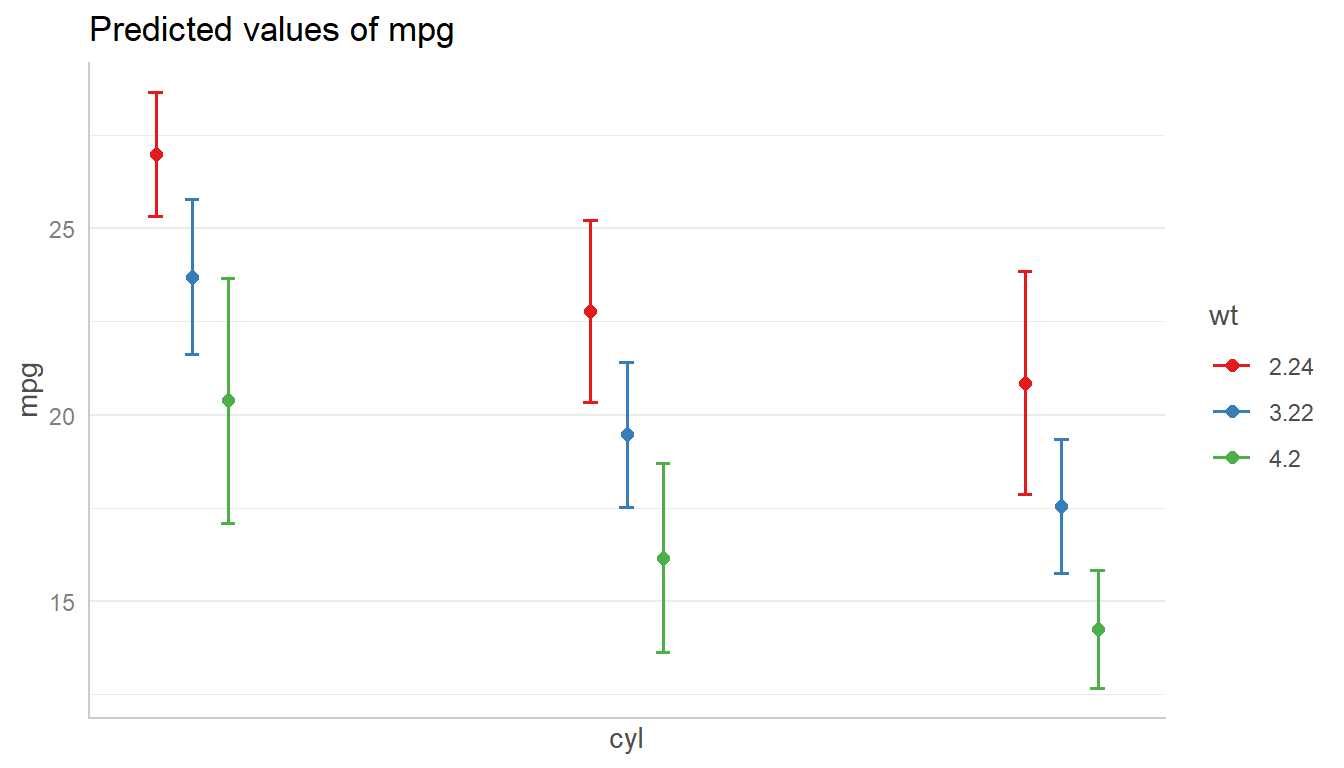
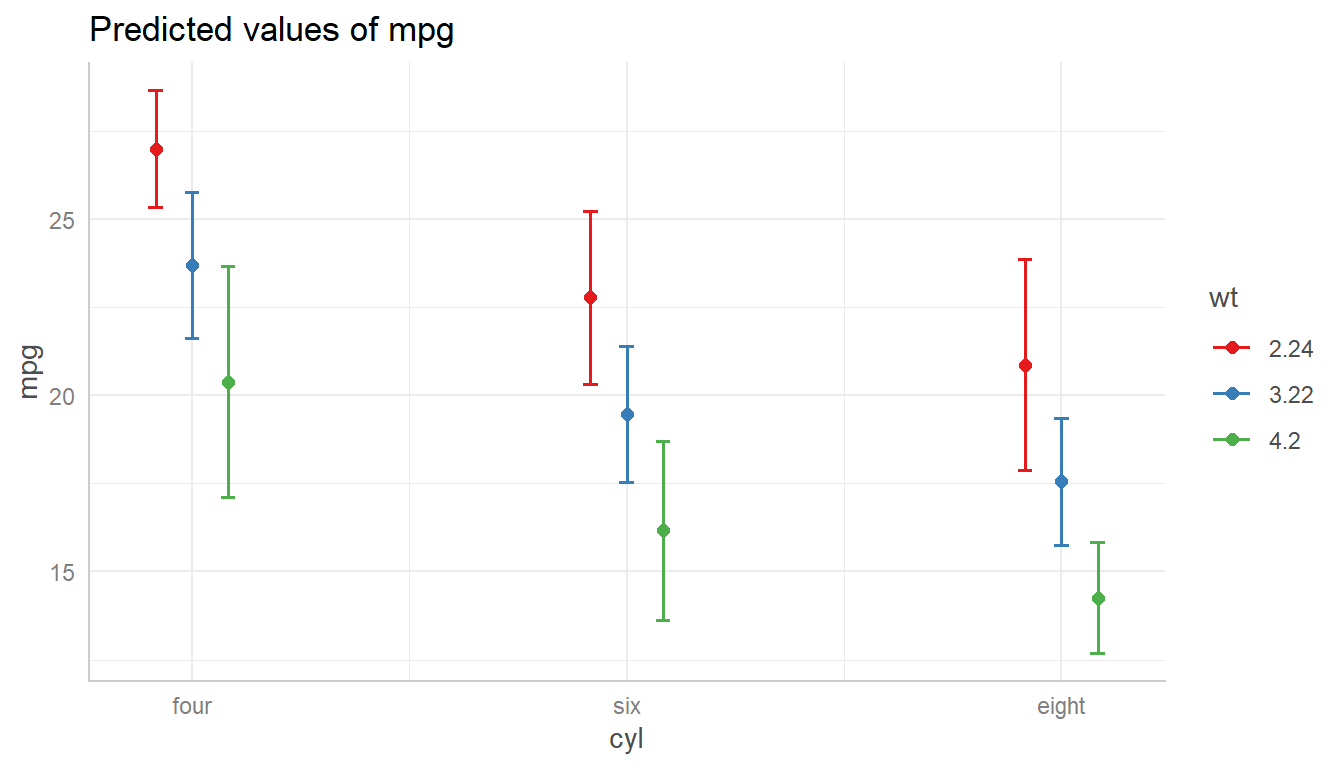
update vignette

diff --git a/docs/articles/introduction_plotcustomize.html b/docs/articles/introduction_plotcustomize.html
@@ -210,7 +210,7 @@
 <a href="#categorical-predictors" class="anchor"></a>Categorical Predictors</h3>
 <p>Since the x-axis is continuous (i.e. <code><a href="https://ggplot2.tidyverse.org/reference/scale_continuous.html">ggplot2::scale_x_continuous()</a></code>), you can use <code>scale_x_continuous()</code> to modify the x-axis, and change breaks, limits or labels.</p>
 <div class="sourceCode" id="cb8"><pre class="sourceCode r"><code class="sourceCode r"><a class="sourceLine" id="cb8-1" title="1"><span class="kw"><a href="../reference/plot.html">plot</a></span>(dat_categorical) <span class="op">+</span><span class="st"> </span></a>
-<a class="sourceLine" id="cb8-2" title="2"><span class="st">  </span><span class="kw">scale_x_continuous</span>(<span class="dt">labels =</span> <span class="kw"><a href="https://rdrr.io/r/base/c.html">c</a></span>(<span class="st">"four"</span>, <span class="st">"six"</span>, <span class="st">"eight"</span>), <span class="dt">breaks =</span> <span class="kw"><a href="https://rdrr.io/r/base/c.html">c</a></span>(<span class="dv">4</span>, <span class="dv">6</span>, <span class="dv">8</span>))</a></code></pre></div>
+<a class="sourceLine" id="cb8-2" title="2"><span class="st">  </span><span class="kw">scale_x_continuous</span>(<span class="dt">labels =</span> <span class="kw"><a href="https://rdrr.io/r/base/c.html">c</a></span>(<span class="st">"four"</span>, <span class="st">"six"</span>, <span class="st">"eight"</span>), <span class="dt">breaks =</span> <span class="kw"><a href="https://rdrr.io/r/base/c.html">c</a></span>(<span class="dv">1</span>, <span class="dv">2</span>, <span class="dv">3</span>))</a></code></pre></div>
 <p><img src="introduction_plotcustomize_files/figure-html/unnamed-chunk-8-1.png" width="672"></p>
 </div>
 <div id="continuous-predictors" class="section level3">
